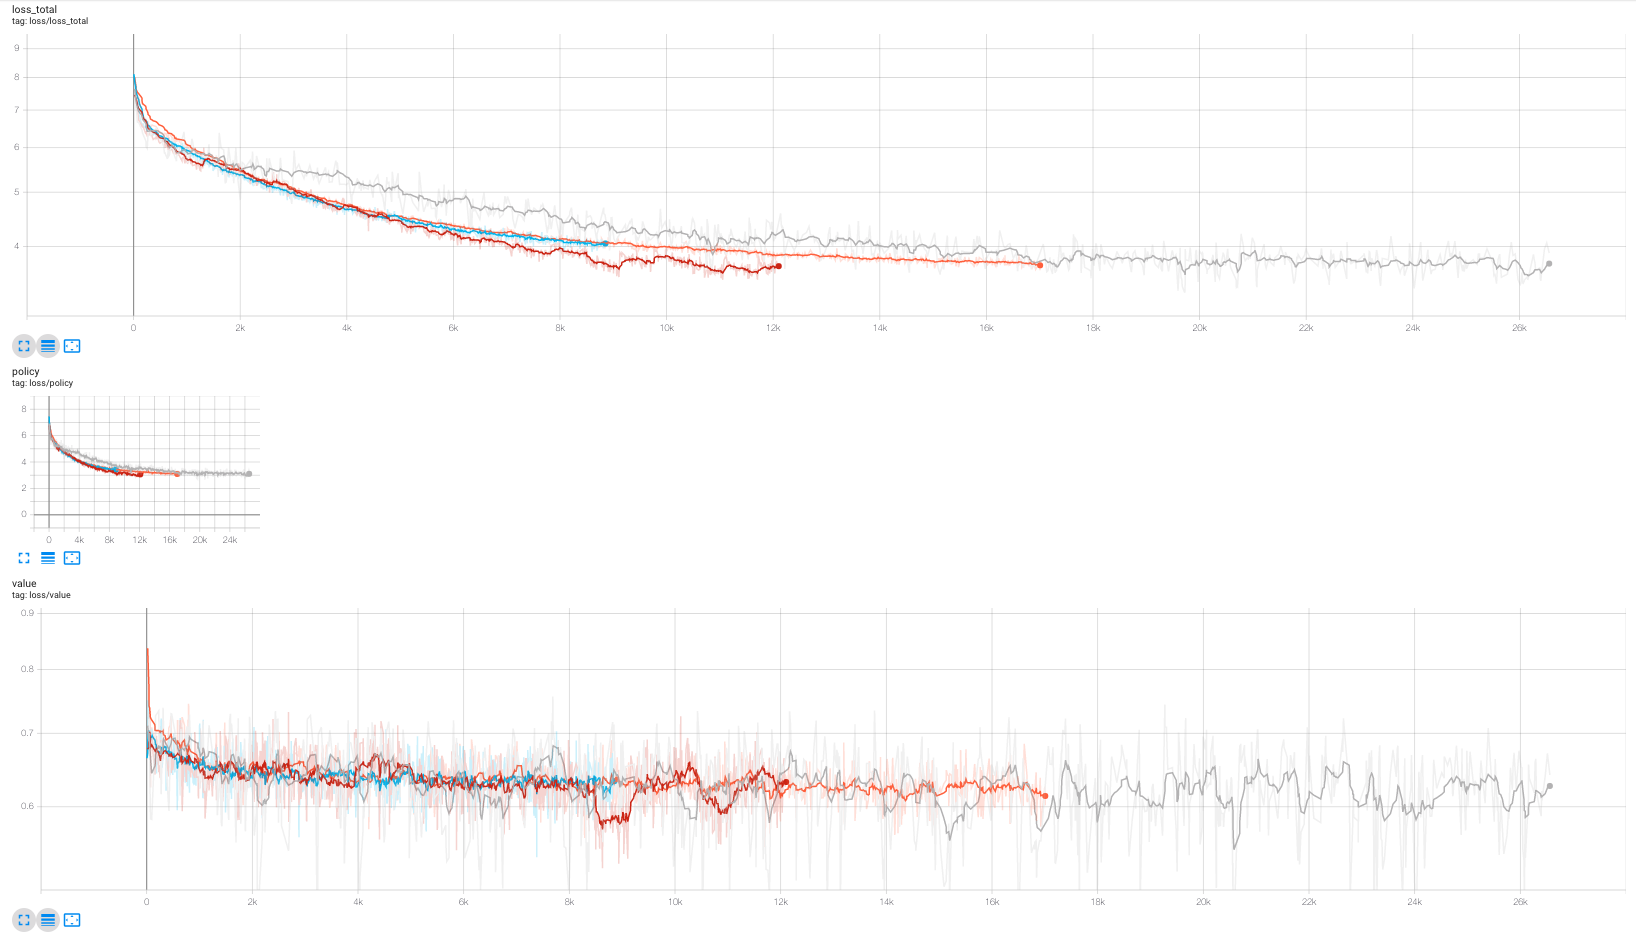
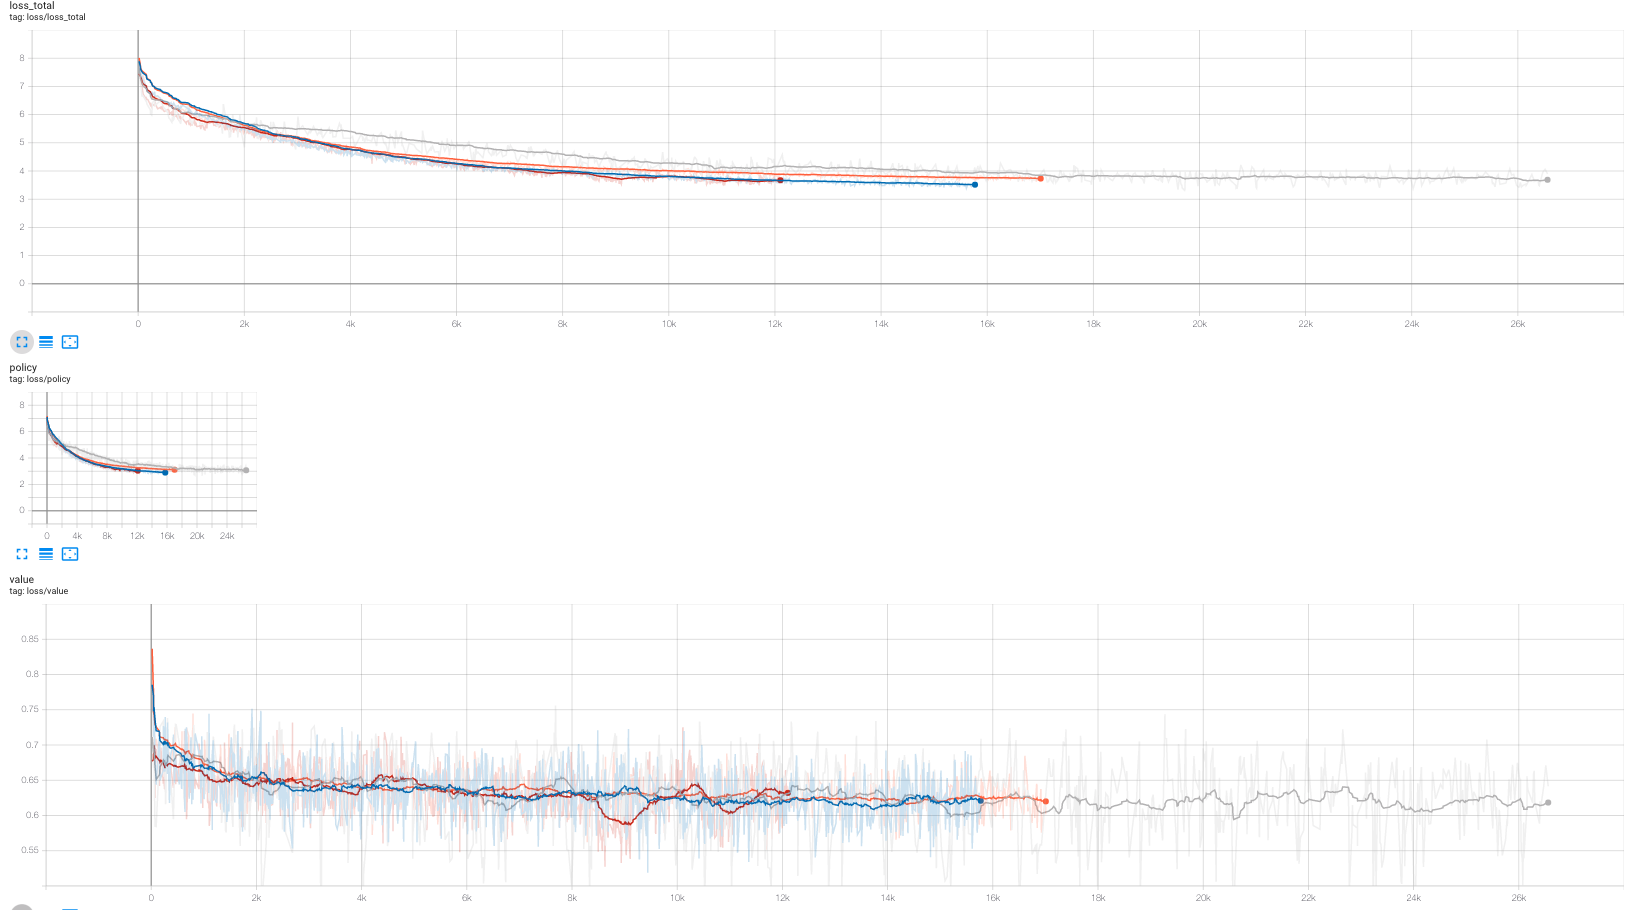
update README

diff --git a/game.py b/game.py
@@ -206,7 +206,7 @@ def one_step(model, b, root, vocab, inv_vocab, mv_ids = None, verbose = False):
 
         # now get probability distribution for for these legal moves and determine the top ones
         lgt_mv = softmax(lgt_mv[future_legal])
-        lgt_mv = top_p(lgt_mv.reshape(1, len(lgt_mv)), p = 0.999)
+        lgt_mv = top_p(lgt_mv.reshape(1, len(lgt_mv)), p = 0.99)
         future_legal = [future_legal[i] for i in lgt_mv[0]]
         if verbose:
             print("Using Futures", [inv_vocab[x] for x in future_legal], future_legal)
@@ -279,11 +279,12 @@ def minimax(node, depth, _max = False):
 ################################################
 
 class Player():
-    def __init__(self, config, save_path, vocab_path, search = "sample"):
+    def __init__(self, config, save_path, vocab_path, search = "sample", depth = 1):
         if search not in ["sample", "greedy", "random", "minimax"]:
             raise ValueError(f"Searching method: {search} not defined")
 
         self.search = search  # method used to determine the move
+        self.depth = depth # number of steps to look into the future
 
         self.config = config
         self.save_path = save_path
@@ -387,9 +388,9 @@ class Player():
 
             # generate tree for this node
             _st = time()
-            print("\nStarting tree generation ...", end = " ")
-            generate_tree(model=model, depth=2, board=b, root_node=root_node, vocab=vocab, inv_vocab=inv_vocab, verbose = False)
-            print(f"Completed in {time() - _st:.4f}s. {root_node.total_nodes - 1} nodes evaluated")
+            # print("\nStarting tree generation ...", end = " ")
+            generate_tree(model=model, depth=self.depth, board=b, root_node=root_node, vocab=vocab, inv_vocab=inv_vocab, verbose = False)
+            # print(f"Completed in {time() - _st:.4f}s. {root_node.total_nodes - 1} nodes evaluated")
 
             # now take the greedy move that maximises the value
             sorted_moves = sorted([
@@ -429,14 +430,15 @@ if __name__ == "__main__":
     config = ModelConfig(vocab_size=vocab_size, n_positions=180,
                          n_ctx=180, n_embd=128, n_layer=30, n_head=8)
     player2 = Player(config, "models/q1/q1_15000.pt",
-                     "assets/moves.json", search="sample")  # assume to be white
+                     "assets/moves.json", search="minimax",
+                     depth = 1)  # assume to be white
 
     for round in trange(100):
         print(f"Starting round: {round}")
         game = GameEngine()
         pgn_writer = chess.pgn.Game()
         pgn_writer_node = pgn_writer
-        pgn_writer.headers["Event"] = "Test"
+        pgn_writer.headers["Event"] = "Test with p=0.99 vs 0.999 in prev"
         pgn_writer.headers["White"] = "z4_0"
         pgn_writer.headers["Black"] = "q1_15000"
         pgn_writer.headers["Round"] = str(round)
@@ -458,9 +460,9 @@ if __name__ == "__main__":
                 # print(mv, "|", m, v, c)
                 done, res = game.step(m)
                 pgn_writer_node = pgn_writer_node.add_variation(m)
-                if res != "game" or mv == 90:
+                if res != "game" or mv == 50:
                     print("Game over")
                     break
         except KeyboardInterrupt:
-            pass
-        print(pgn_writer, file=open("auto_tournaments_sample.pgn", "a"), end="\n\n")
+            break
+        print(pgn_writer, file=open("auto_tournaments_search_d1.pgn", "a"), end="\n\n")

diff --git a/README.md b/README.md
@@ -12,7 +12,7 @@ Now added is the code to server and a simple webapge to play in:
 python3 play.py # goto http://0.0.0.0:5000/ in browser
 ```
 
-To see a random gameplay between two AI agents run `python3 game.py` which will print value, confidence for each move and create a PGN file. To see the gameplay online goto this [website](https://chesstempo.com/pgn-viewer/), copy pase your PGN.
+To see a random gameplay between two AI agents ("AI goes brrrr....") run `python3 game.py` which will print value, confidence for each move and create a PGN file. To see the gameplay online goto this [website](https://chesstempo.com/pgn-viewer/), copy paste your PGN.
 
 
 ## It Learns!...?
@@ -23,6 +23,24 @@ Consider this simple game where two networks with the same weights were playing 
 <img src="assets/self-play1.png">
 
 Note that the game did not turn out to be like that, infact both the models play (policy) very stupidly. However they do correctly understand the state of the board and balck better than white because of that depth search. This used a `z5` model and 
+
+## Todo
+
+This is the task list:
+
+- [x] **Perform Accuracy Tests:** Accuracy runs are not the correct measure of reliability of model as acurracy for low loss models is still close to 0. Created better metrics.
+- [ ] Complete automation of tournament generation. Is there some way to define "whats going on?"
+  - Add code for creating metric graphs.
+- [ ] Integrate code with a web interface on [chessshhh](https://github.com/yashbonde/chessshhh)
+  - Port code for server
+    - There's this CORS shit for API and static file code is not being read correctly. Someone else has to fix those.
+- [ ] Add Simple MinMax Tree search
+  - ~~Write code for minimax~~
+  - ~~Integrate with `Player`~~
+  - ~~Log Improvements, gameplay. Run tournaments~~
+  - Optimise code for deeper search. Add a timed buffer such that it 
+- [ ] (**later**) Add more complicated search algorithm MCTS
+
 
 ## Player
 
@@ -96,37 +114,25 @@ I use 2x1080Ti configuration with 128 GB of RAM, `batch_size=350` seems to fill 
 
 | name | n_embd | n_layer | buffer_size | batch_size | maxlen |
 | ---- | ------ | ------- | ----------- | ---------- | ------ |
-| v0   | 128    | 30      | 55555       | 350        | 60     |
-| v6   | 256    | 20      | 1000000     | 256        | 60     |
-| z5   | 128    | 30      | Full        | 350        | 60     |
-| q1   | 128    | 30      | Full        | 90         | 180    |
+| v0 (grey)   | 128    | 30      | 55555       | 350        | 60     |
+| v6 (red)  | 256    | 20      | 1000000     | 256        | 60     |
+| z5 (orange)  | 128    | 30      | Full        | 350        | 60     |
+| q1 (blue)  | 128    | 30      | Full        | 90         | 180    |
 
-Consider the loss graph below, grey one is `v0`, red is `v6` and orange is `z5`. You can see that larger buffer improves the training as seen between `v0` and `v6`, both in overall loss and smoother loss curves. When compared with fully loaded dataset in `z5` the loss curve is more smoother while the training takes longer. It eventually does reach the lower loss value (epoch-end). Due to a bug in the `IterableDataset` number of samples was lower than fully loaded counterpart also seen is that a larger model gives only a slight edge over the smaller counterpart while parameters are ~3x.
+You can see that larger buffer improves the training as seen between `v0` and `v6`, both in overall loss and smoother loss curves. When compared with fully loaded dataset in `z5` the loss curve is more smoother while the training takes longer. It eventually does reach the lower loss value (epoch-end). Due to a bug in the `IterableDataset` number of samples was lower than fully loaded counterpart also seen is that a larger model gives only a slight edge over the smaller counterpart while parameters are ~3x.
 
 <img src="assets/loss_f.png">
 
-These curves obey the neural language models scaling laws as proposed by OpenAI. Read more in this [blog](https://yashbonde.github.io/blogs/chess-lm-1_5.html).
+These curves obey the neural language models scaling laws as proposed by OpenAI. Read more in this [blog](https://yashbonde.github.io/blogs/chess-lm-1_5.html). Moreover models trained on longer sequences only provides a bit better training (compare to `v6`).
 
-<!-- |name|win_pred|acc_pred|
-|-|-|-|
-|z5_0.pt|0.0183%|0%| -->
+## Metrics
 
-## Todo
+How do we find out whether the model is learning or not. Often during the gameplay I see that it shows a certain smartness and ability to remember. Now after performing a first round of testing with minimax tree search (where `k = 1`), the model plays repeated moves. Consider this PGN, where the king repeatedly moves in the same pattern:
+```
+1. a3 Nf6 2. f4 e6 3. g4 d6 4. Bg2 Nfd7 5. c3 c6 6. b3 a6 7. Be4 g6 8. c4 b6 9. d3 Ra7 10. Nh3 Rc7 11. c5 Ra7 12. Bd5 g5 13. Bg2 Ra8 14. Ng1 Ra7 15. Nh3 Ke7 16. Be4 Ke8 17. Bxh7 d5 18. Bb2 Bd6 19. a4 Kf8 20. Bxh8 gxf4 21. Qc1 Ke8 22. b4 f5 23. Qc4 Kf8 24. Kf2 Ke8 25. cxd6 Kf8 26. Rc1 Ke8 27. Nd2 Kf8 28. Ng1 Ke8 29. h4 Kf8 30. d4 Ke8 31. e4 Kf8 32. Rab1 Ke8 33. h5 Kf8 34. exf5 Ke8 35. Qd3 Kf8 36. Rc3 Ke8 37. fxe6 Kf8 38. Nc4 Ke8 39. h6 Kf8 40. Nh3 Ke8 41. Rcc1 Kf8 42. Ng1 Ke8 43. Qg6+ Kf8 44. Nd2 Qe8 45. Kf3 Qd8 46. Rc2 Qe8 47. Qg8# *
+```
 
-This is the task list:
-
-- [ ] Use `gdown` to download from google drive
-- [ ] Perform Accuracy run on different models and log (in progress)
-  - Create a small subset of data for testing: create a conditional in `download.py` which runs like `python3 download.py -s 5` and creates a smaller file with top 5% of all the sequences in ZIP extract. Remember to do it for both the `agg_moves.txt` and `agg_res.txt`.
-  - Write a python script to evaluate different models on this small subset, it takes in a txt file which has list of paths to different checkpoints. This is done because in the final version all the models will have to be evaluated automatically on the complete dataset and there should be no human in the loop.
-- [ ] Integrate code with a web interface on [chessshhh](https://github.com/yashbonde/chessshhh)
-  - ~~Make a neural player~~
-  - Port code for server
-    - There's this CORS shit for API and static file code is not being read correctly. Someone else has to fix those.
-- [ ] Add Simple MinMax Tree search
-  - ~~Write code for minimax~~
-  - Integrate with `Player`
-- [ ] Add more complicated search algorithm MCTS
+I need to come up with good metrics!
 
 ## Credits
 
